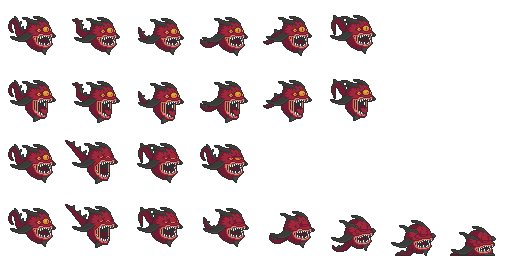
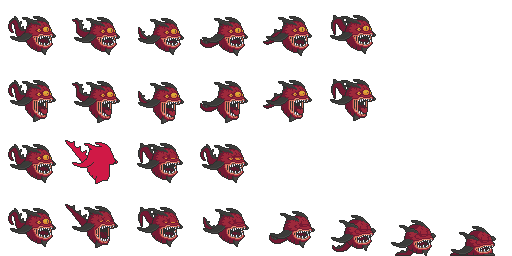
✨ Add Daemon enemy with projectile mechanics and assets

Changed region(s): [[0.125, 0.5312, 0.2188, 0.7188]]

diff --git a/client/game/ClientApplicationCreateEntity.cpp b/client/game/ClientApplicationCreateEntity.cpp
@@ -120,6 +120,36 @@ void CreateMermaidProjectile(Engine::registry &reg,
             45.f, 0, 8, 3.0f, 2.0f, -1.0f, LAYER_PARTICLE));
 }
 
+void CreateDaemonProjectile(Engine::registry &reg,
+    const ClientApplication::ParsedEntity &entity_data,
+    Engine::registry::entity_t new_entity) {
+    // Decode velocity from encoded format (encoded = actual + 32768)
+    int16_t decoded_vx = static_cast<int16_t>(entity_data.velocity_x) - 32768;
+    int16_t decoded_vy = static_cast<int16_t>(entity_data.velocity_y) - 32768;
+
+    // Add components to projectile entity
+    reg.AddComponent<Component::Transform>(
+        new_entity, Component::Transform{static_cast<float>(entity_data.pos_x),
+                        static_cast<float>(entity_data.pos_y), 0.0f, 2.f,
+                        Component::Transform::CENTER});
+    reg.AddComponent<Component::Drawable>(
+        new_entity, Component::Drawable(
+                        "ennemies/Daemon/Projectile.png", LAYER_PROJECTILE));
+    reg.AddComponent<Component::Projectile>(new_entity,
+        Component::Projectile{static_cast<int>(MERMAID_PROJECTILE_DAMAGE),
+            sf::Vector2f(decoded_vx, decoded_vy), MERMAID_PROJECTILE_SPEED, -1,
+            true});
+    reg.AddComponent<Component::HitBox>(
+        new_entity, Component::HitBox{8.0f, 8.0f});
+    reg.AddComponent<Component::Velocity>(
+        new_entity, Component::Velocity{static_cast<float>(decoded_vx),
+                        static_cast<float>(decoded_vy)});
+    reg.AddComponent<Component::ParticleEmitter>(new_entity,
+        Component::ParticleEmitter(50, 50, ORANGE_HIT, ORANGE_HIT,
+            sf::Vector2f(0.f, 0.f), true, 0.3f, 4.f, sf::Vector2f(-1.f, 0.f),
+            45.f, 0, 8, 3.0f, 2.0f, -1.0f, LAYER_PARTICLE));
+}
+
 static void CreateProjectileEntity(GameWorld &game_world,
     Engine::registry::entity_t new_entity,
     const ClientApplication::ParsedEntity &entity_data) {
@@ -140,6 +170,10 @@ static void CreateProjectileEntity(GameWorld &game_world,
                ClientApplication::ParsedEntity::kMermaidProjectile) {
         // Mermaid projectile
         CreateMermaidProjectile(game_world.registry_, entity_data, new_entity);
+    } else if (entity_data.projectile_type ==
+               ClientApplication::ParsedEntity::kDaemonProjectile) {
+        // Mermaid projectile
+        CreateDaemonProjectile(game_world.registry_, entity_data, new_entity);
     } else {
         printf("[Snapshot] Unknown projectile type 0x%02X for entity ID %u\n",
             entity_data.projectile_type, entity_data.entity_id);

diff --git a/server/src/server/factory/FactoryKamiFish.cpp b/server/src/server/factory/FactoryKamiFish.cpp
@@ -12,31 +12,6 @@ namespace fs = std::filesystem;
 
 namespace server {
 
-void CreateKamiFishProjectile(Engine::registry &reg, vector2f direction,
-    Component::EnemyShootTag &enemy_shoot, int ownerId,
-    Component::Transform const &transform) {
-    auto projectile_entity = reg.SpawnEntity();
-    reg.AddComponent<Component::NetworkId>(
-        projectile_entity, Component::NetworkId{Server::GetNextNetworkId()});
-    // Add components to projectile entity
-    reg.AddComponent<Component::Transform>(projectile_entity,
-        Component::Transform{
-            transform.x + (enemy_shoot.offset_shoot_position.x *
-                              std::abs(transform.scale.x)),
-            transform.y + (enemy_shoot.offset_shoot_position.y *
-                              std::abs(transform.scale.y)),
-            0.0f, 2.f, Component::Transform::CENTER});
-    reg.AddComponent<Component::Projectile>(projectile_entity,
-        Component::Projectile{
-            Component::Projectile::ProjectileType::Enemy_Mermaid,
-            enemy_shoot.damage_projectile, direction,
-            enemy_shoot.speed_projectile, ownerId, true});
-    reg.AddComponent<Component::HitBox>(
-        projectile_entity, Component::HitBox{8.0f, 8.0f});
-    reg.AddComponent<Component::Velocity>(
-        projectile_entity, Component::Velocity{direction.x, direction.y});
-}
-
 void FactoryActors::CreateKamiFishActor(
     Engine::entity &entity, Engine::registry &reg, EnnemyInfo info) {
     // Add pattern movement following the player

diff --git a/server/src/server/factory/FactoryDaemon.cpp b/server/src/server/factory/FactoryDaemon.cpp
@@ -28,7 +28,7 @@ void CreateDaemonProjectile(Engine::registry &reg, vector2f direction,
             0.0f, 2.f, Component::Transform::CENTER});
     reg.AddComponent<Component::Projectile>(projectile_entity,
         Component::Projectile{
-            Component::Projectile::ProjectileType::Enemy_Mermaid,
+            Component::Projectile::ProjectileType::Enemy_Daemon,
             enemy_shoot.damage_projectile, direction,
             enemy_shoot.speed_projectile, ownerId, true});
     reg.AddComponent<Component::HitBox>(
@@ -68,7 +68,7 @@ void FactoryActors::CreateDaemonActor(
                     vector2f(-1.0f, 0.0f), info.speed));
 
     // Add enemy shooting component
-    Component::EnemyShootTag enemy_shoot_tag(200.0f, 10.0f, {-3.0f, -15.0f});
+    Component::EnemyShootTag enemy_shoot_tag(200.0f, 10.0f, {-8.0f, 8.0f});
 
     // Add drawable and animated sprite components
     // AnimatedSprite(bool loop, int totalFrames, float frameDuration)

diff --git a/client/game/factory/factory_ennemies/CreateDaemonActor.cpp b/client/game/factory/factory_ennemies/CreateDaemonActor.cpp
@@ -31,7 +31,7 @@ void FactoryActors::CreateDaemonActor(
 
     // Add enemy shooting component
     Component::EnemyShootTag enemy_shoot_tag(info.speed,
-        Rtype::Client::MERMAID_PROJECTILE_DAMAGE, sf::Vector2f(0.0f, 0.0f));
+        Rtype::Client::MERMAID_PROJECTILE_DAMAGE, sf::Vector2f(-7.0f, 8.0f));
 
     reg.AddComponent<Component::TimedEvents>(
         entity, Component::TimedEvents(

diff --git a/server/src/server/ServerSetupGame.cpp b/server/src/server/ServerSetupGame.cpp
@@ -23,6 +23,9 @@ void SpawnEnemyFromRight(Engine::registry &reg) {
 
     int r = std::rand() % 100;
 
+    FactoryActors::GetInstance().CreateActor(
+        enemy_entity, reg, "daemon", vector2f{2000.f, random_y}, false);
+    return;
     if (r < 47)
         FactoryActors::GetInstance().CreateActor(
             enemy_entity, reg, "kamifish", vector2f{2000.f, random_y}, false);

diff --git a/client/game/ClientApplication.hpp b/client/game/ClientApplication.hpp
@@ -21,7 +21,8 @@ class ClientApplication {
         enum ProjectileType : uint8_t {
             kPlayerProjectile = 0x00,
             kPlayerChargedProjectile = 0x01,
-            kMermaidProjectile = 0x02
+            kMermaidProjectile = 0x02,
+            kDaemonProjectile = 0x03
         };
 
         enum EntityType : uint8_t {

diff --git a/client/include/ColorsConst.hpp b/client/include/ColorsConst.hpp
@@ -6,5 +6,7 @@ namespace Rtype::Client {
 const Engine::Graphics::Color WHITE_BLUE =
     Engine::Graphics::Color(237, 240, 245);
 const Engine::Graphics::Color RED_HIT = Engine::Graphics::Color(208, 25, 70);
+const Engine::Graphics::Color ORANGE_HIT =
+    Engine::Graphics::Color(218, 131, 53);
 
 }  // namespace Rtype::Client

diff --git a/server/include/server/GameplayComponents.hpp b/server/include/server/GameplayComponents.hpp
@@ -110,7 +110,8 @@ struct Projectile {
     enum class ProjectileType {
         Normal = 0,
         Charged = 1,
-        Enemy_Mermaid = 2
+        Enemy_Mermaid = 2,
+        Enemy_Daemon = 3
     } type = ProjectileType::Normal;
     int damage;
     vector2f direction;
